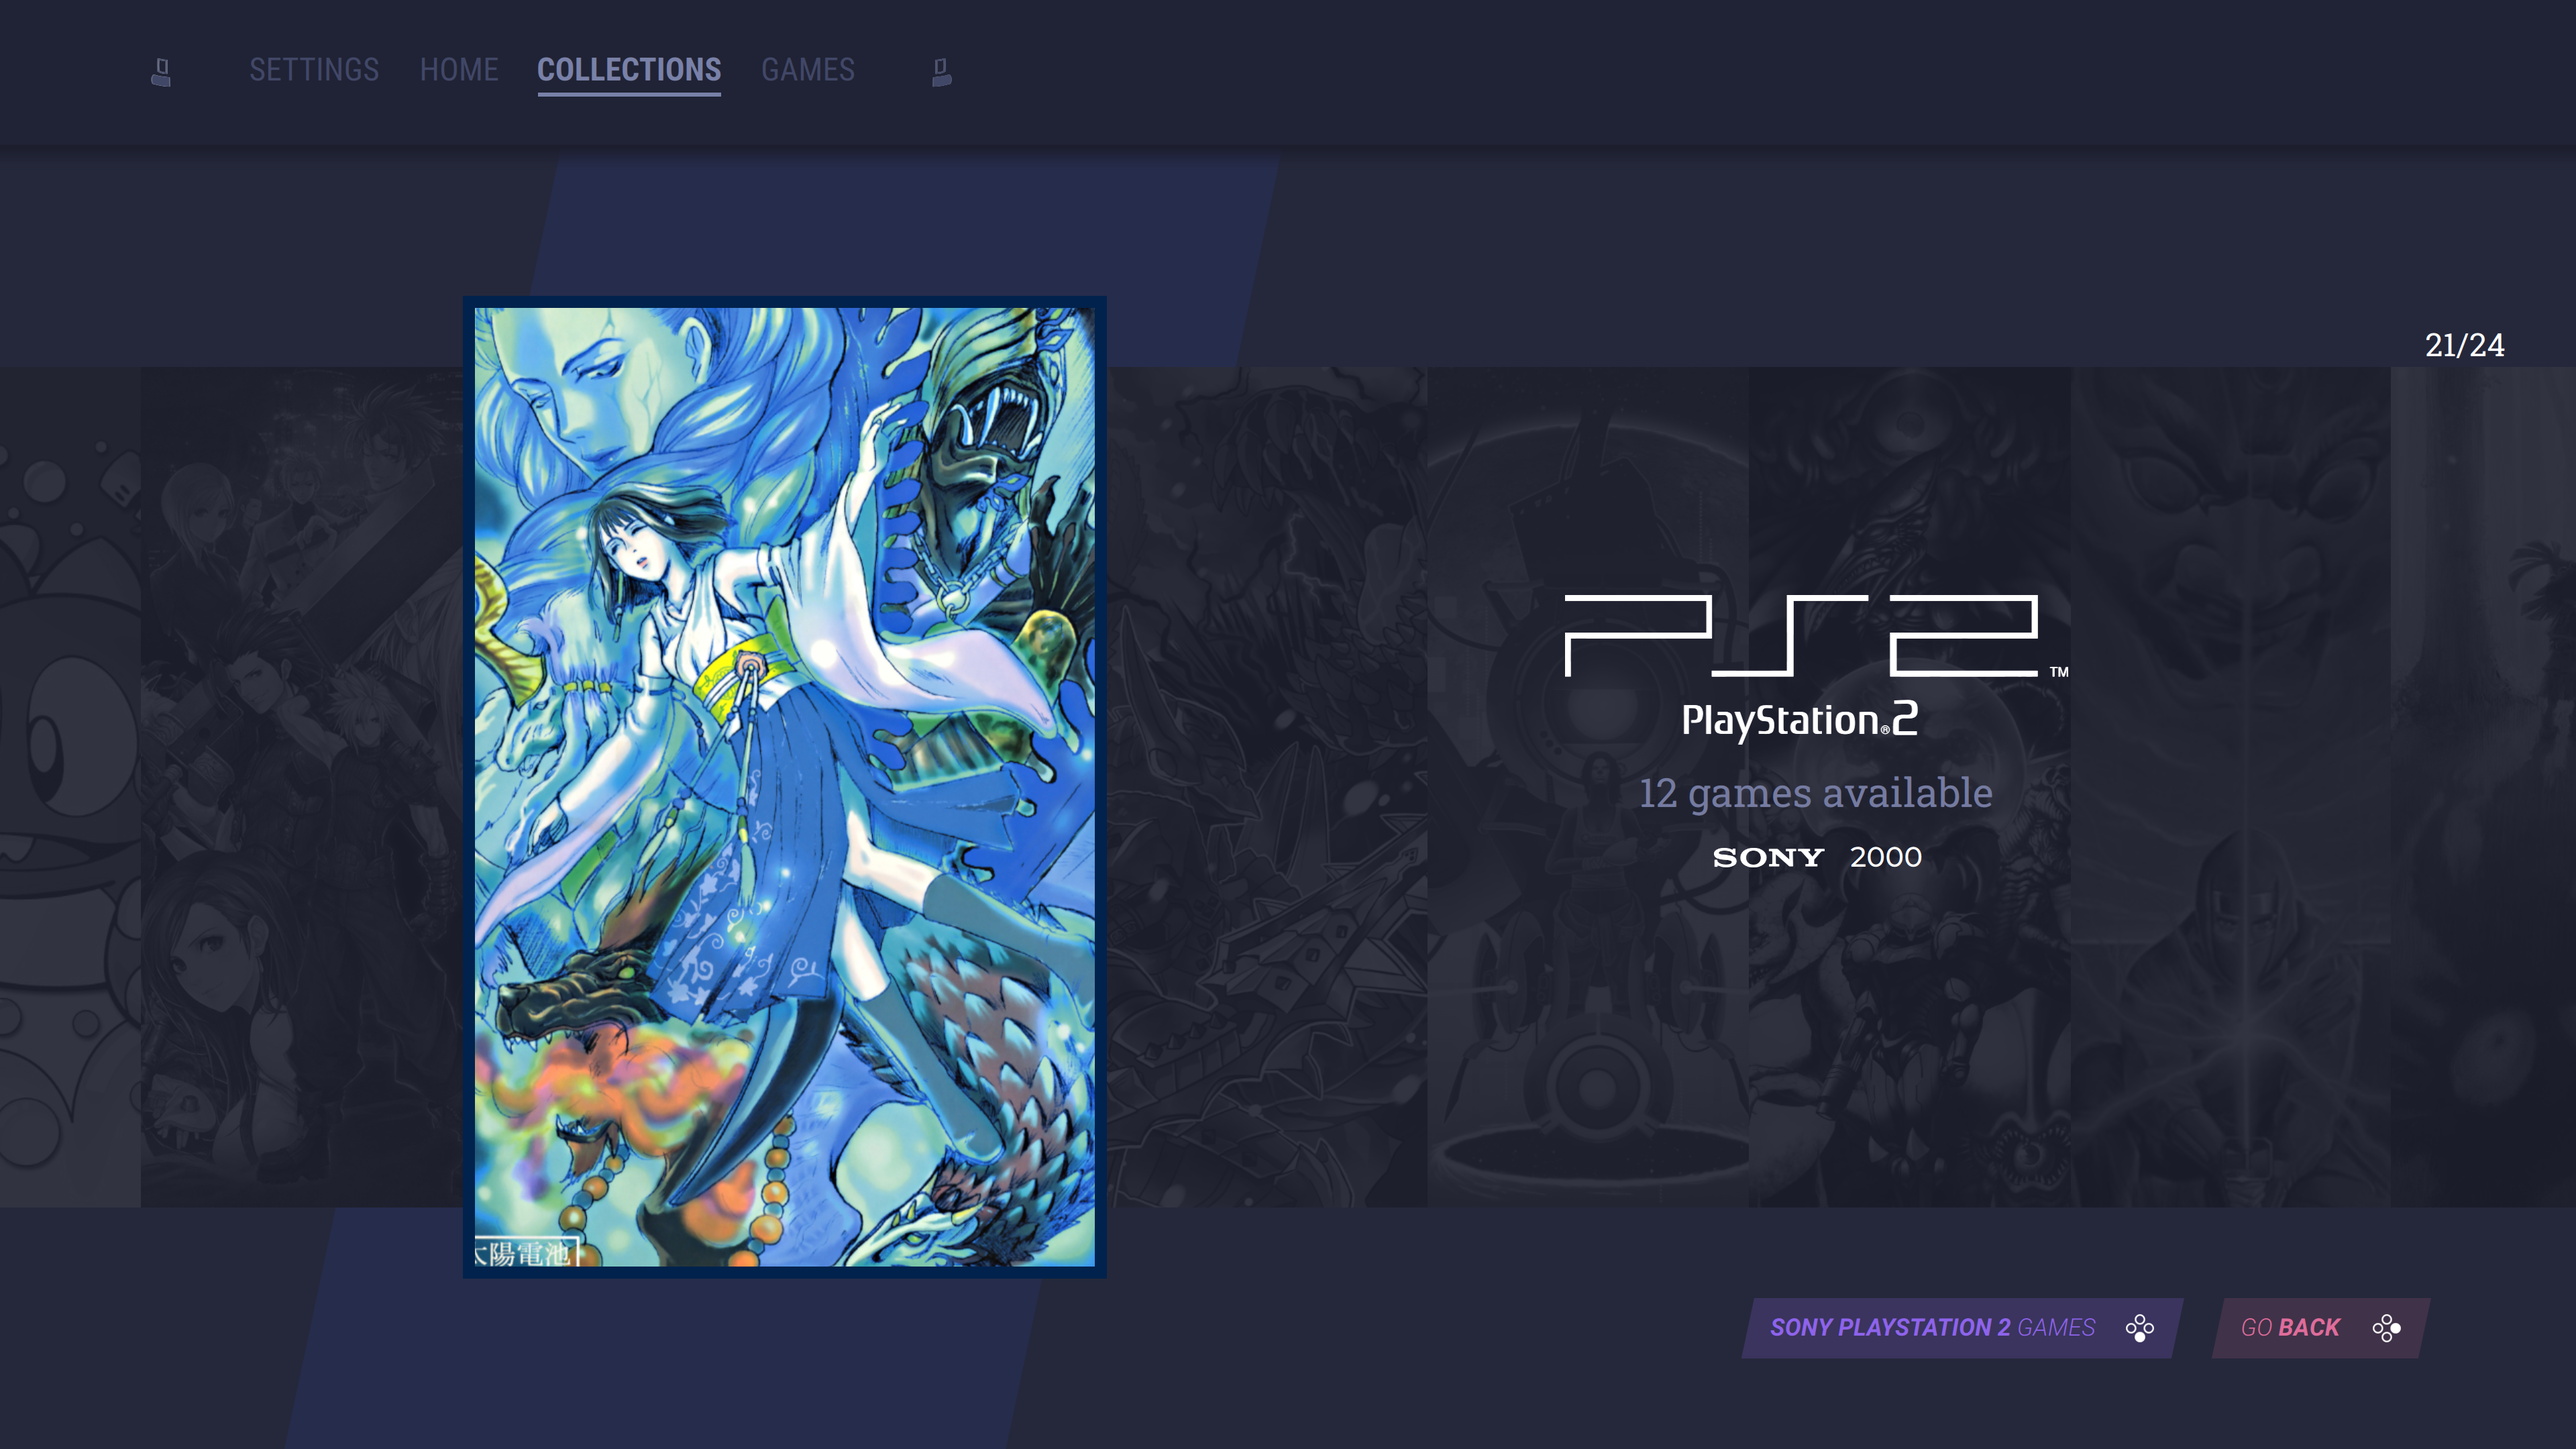
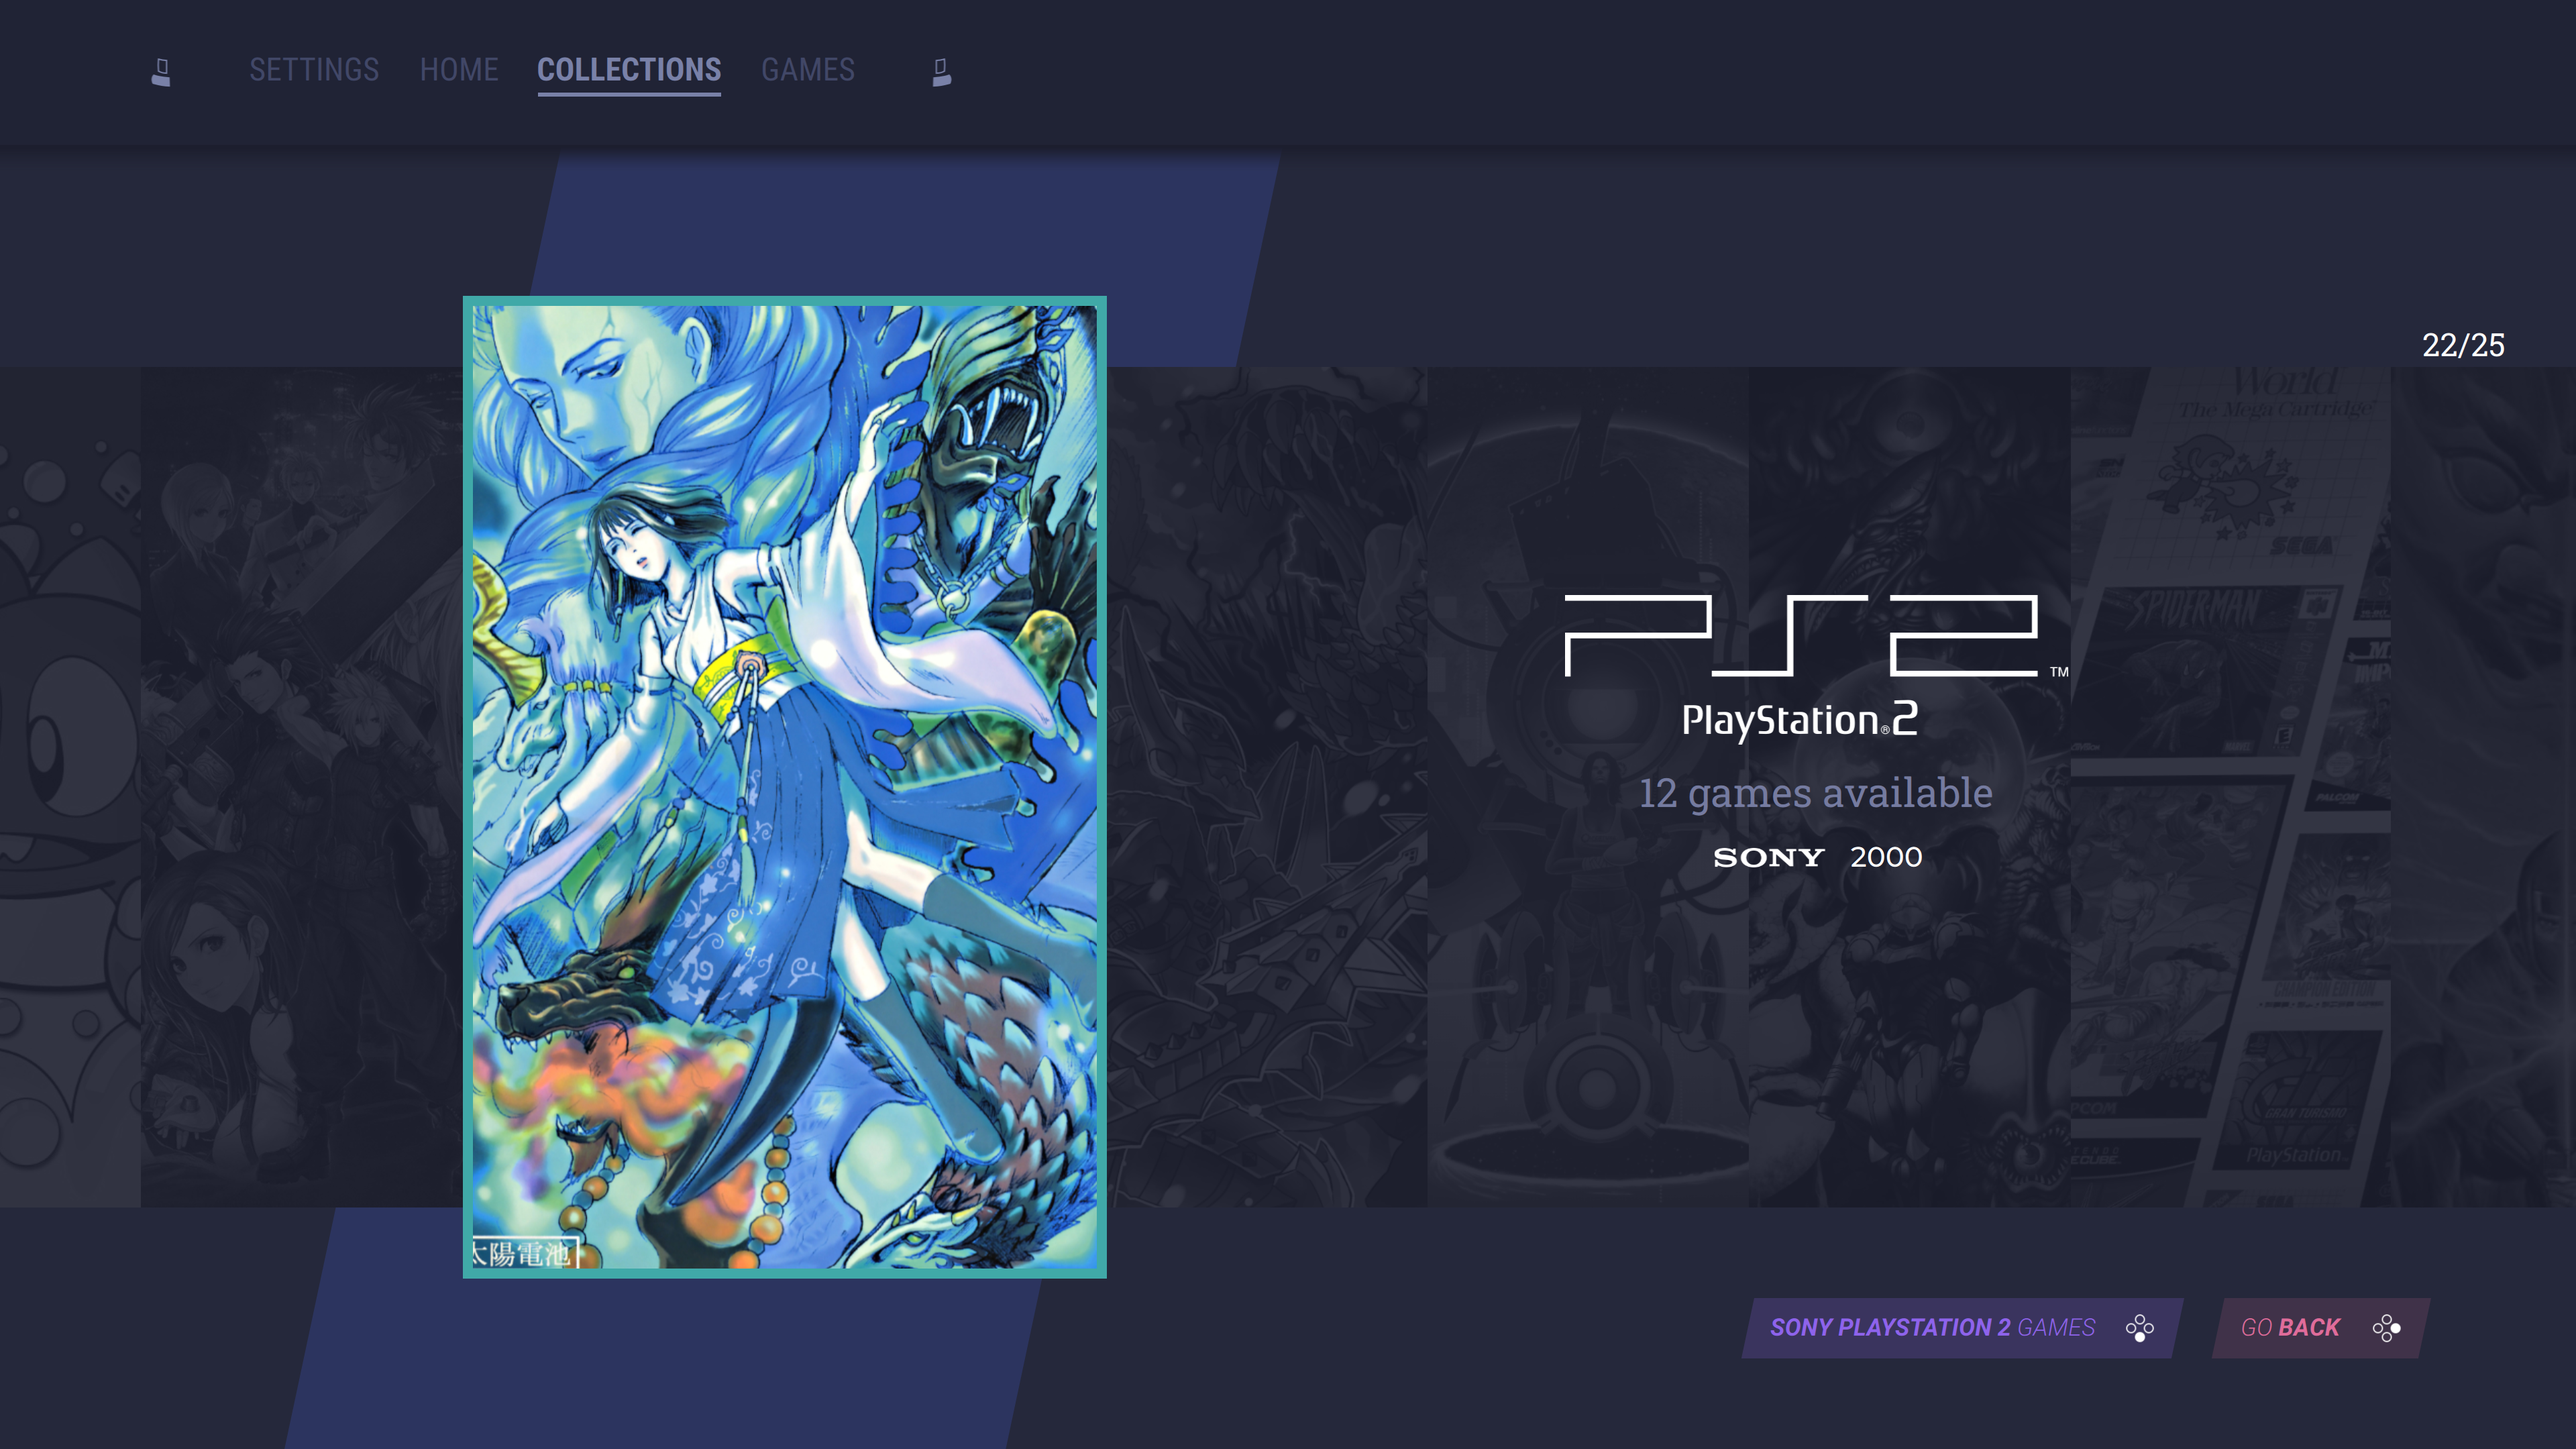
Updated screenshots

Changed region(s): [[0.1875, 0.1861, 0.4375, 0.8995], [0.1562, 0.2171, 0.1875, 0.8685], [0.9375, 0.2171, 0.9688, 0.2481]]

diff --git a/README.md b/README.md
@@ -12,12 +12,16 @@ A flexible and tweakable theme for [Pegasus Frontend](http://pegasus-frontend.or
   <summary><b>Screenshots</b></summary>
   <img src="assets/screenshot/home_dark.png"  title="home"/>
   <img src="assets/screenshot/home_light.png" title="home"/>
+  <img src="assets/screenshot/home_ozonedark.png"  title="home"/>
   <img src="assets/screenshot/collection_dark.png" title="collections" />
   <img src="assets/screenshot/collection_light.png" title="collections" />
+  <img src="assets/screenshot/collection_ozonedark.png" title="collections" />
   <img src="assets/screenshot/games_dark.png" title="games" />
   <img src="assets/screenshot/games_light.png" title="games" />
+  <img src="assets/screenshot/games_ozonedark.png" title="games" />
   <img src="assets/screenshot/settings_dark.png" title="settings" />
   <img src="assets/screenshot/settings_light.png" title="settings" />
+  <img src="assets/screenshot/settings_ozonedark.png" title="settings" />
 </details>
 
 ***
